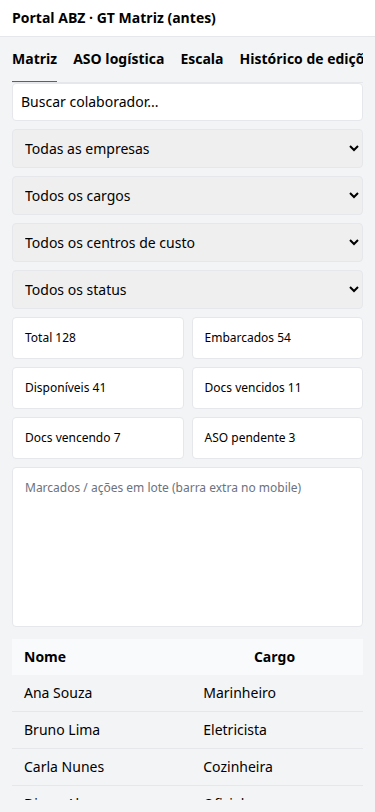
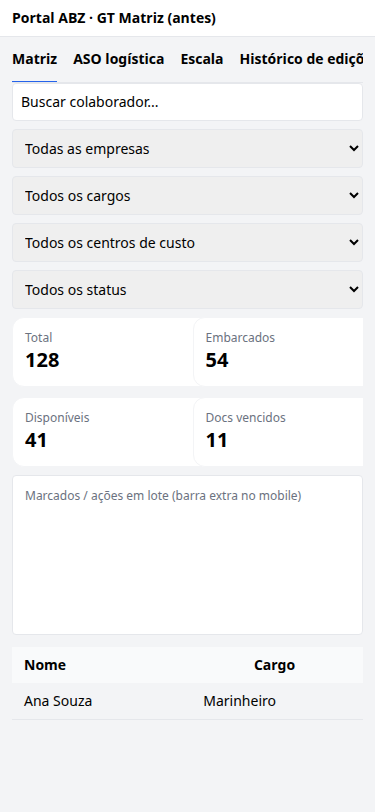
fix(mobile): FABs 44px vencem utilitários Tailwind no celular.
Sobe especificidade de Companion/Help e padding do main. Atualiza
prints 390/375 (KPI snap, QHSE swipe, FABs) e proof-metrics.json.

diff --git a/src/app/globals.css b/src/app/globals.css
@@ -352,23 +352,23 @@ error, success {
     flex-shrink: 0;
   }
 
-  [data-portal-main] {
+  main[data-portal-main] {
     padding-bottom: calc(5.75rem + env(safe-area-inset-bottom, 0px));
   }
 
-  [data-fab-companion],
-  [data-fab-help] {
+  button[data-fab-companion],
+  button[data-fab-help] {
     width: 2.75rem;
     height: 2.75rem;
     bottom: calc(0.75rem + env(safe-area-inset-bottom, 0px));
   }
-  [data-fab-help] {
+  button[data-fab-help] {
     right: calc(0.75rem + env(safe-area-inset-right, 0px));
   }
-  [data-fab-companion] {
+  button[data-fab-companion] {
     right: calc(4rem + env(safe-area-inset-right, 0px));
   }
-  [data-fab-companion] > * {
+  button[data-fab-companion] > * {
     max-width: 2.5rem;
     max-height: 2.5rem;
     width: 2.5rem;

diff --git a/src/components/ui/modal-chrome.test.ts b/src/components/ui/modal-chrome.test.ts
@@ -24,8 +24,8 @@ describe('modal chrome mobile-only', () => {
       '[data-modal-panel]',
       '[data-gt-kpi-cards]',
       '[data-portal-main]',
-      '[data-fab-companion]',
-      '[data-fab-help]',
+      'button[data-fab-companion]',
+      'button[data-fab-help]',
       '[data-fab-companion-panel]',
       '[data-fab-companion-action]',
     ];
